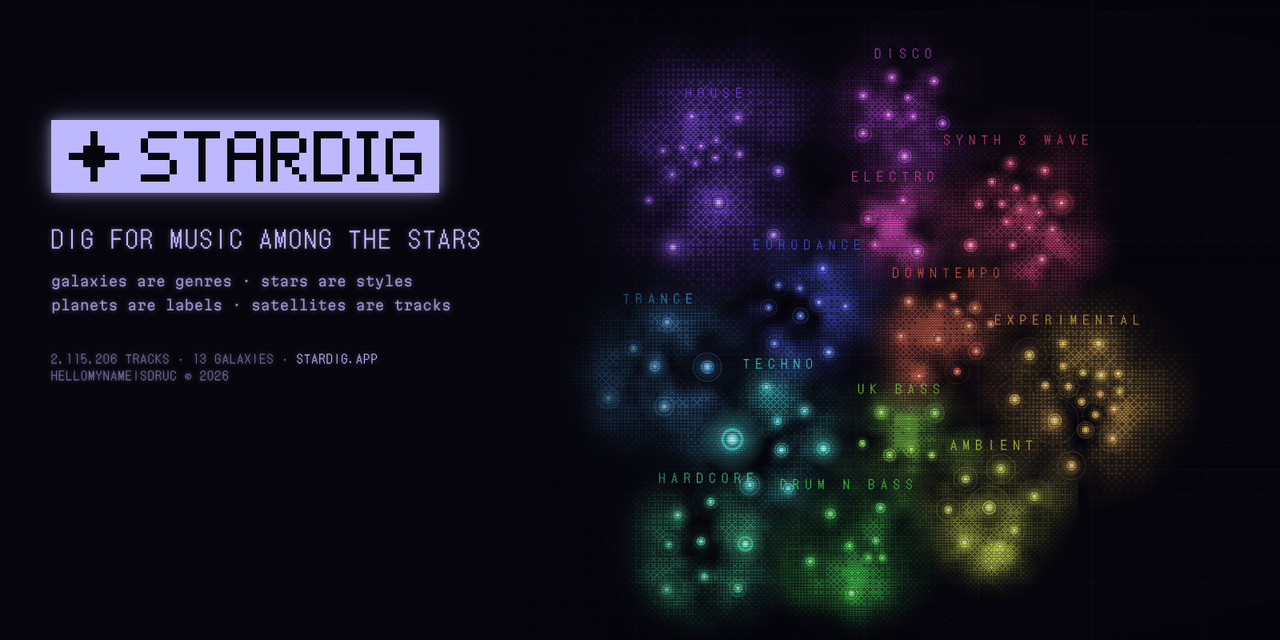
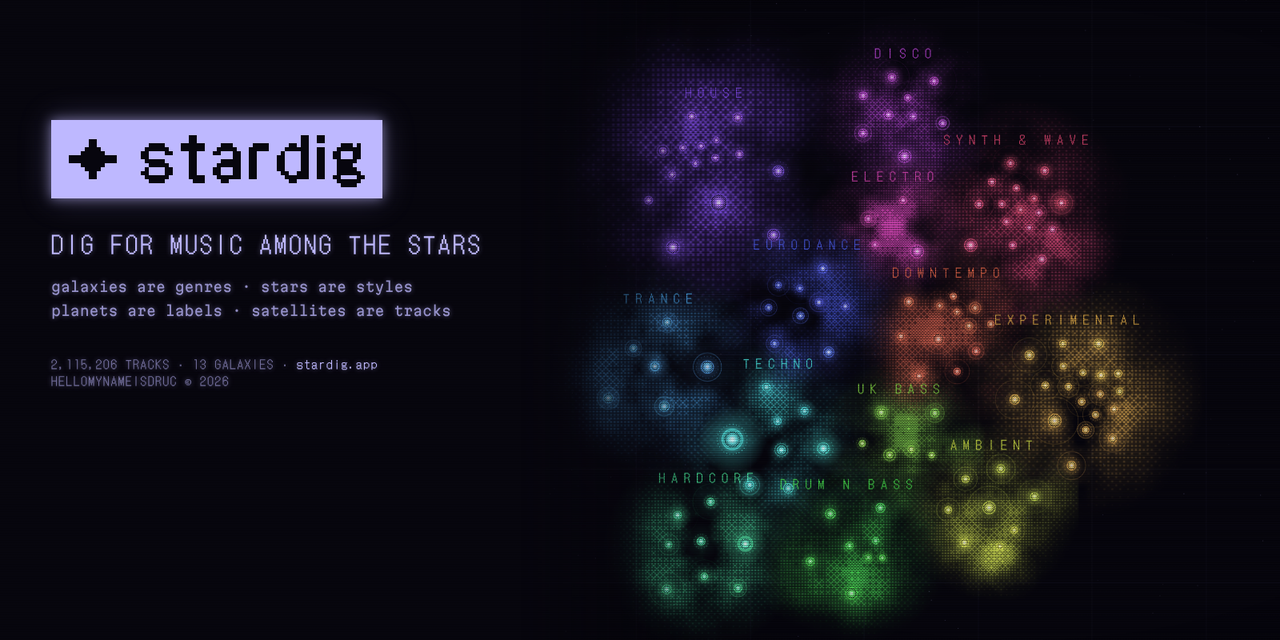
stardig, lowercase everywhere: the wordmark in DotGothic's own lowercase pixels (t, i and r redrawn with even 2-pixel strokes), titles, meta tags, privacy page, README; new social image
Claude-Session: https://claude.ai/code/session_0118KSDC269jzHuEKW3jVK4F

Changed region(s): [[0.0312, 0.1562, 0.375, 0.5], [0.0312, 0.5312, 0.3125, 0.625]]

diff --git a/web/src/ui/logo.ts b/web/src/ui/logo.ts
@@ -1,27 +1,35 @@
-// The wordmark: STARDIG in its own pixel letters (5×7, even strokes, an I with serifs), after a small
-// four-point spark. Drawn in the colour it sits in, so it works on the inverted plate and on the dark.
+// The wordmark: stardig, lowercase, in DotGothic16's own pixels (copied from the font at its native 16px), except
+// t, i and r, redrawn on the same grid with the font's 2-pixel strokes (at this size the font
+// draws them with 1-pixel stems). A four-point spark comes first. Drawn in the colour it sits in.
 const G: Record<string, string[]> = {
-  S: [".####", "#....", "#....", ".###.", "....#", "....#", "####."],
-  T: ["#####", "..#..", "..#..", "..#..", "..#..", "..#..", "..#.."],
-  A: [".###.", "#...#", "#...#", "#####", "#...#", "#...#", "#...#"],
-  R: ["####.", "#...#", "#...#", "####.", "#.#..", "#..#.", "#...#"],
-  D: ["####.", "#...#", "#...#", "#...#", "#...#", "#...#", "####."],
-  I: ["###", ".#.", ".#.", ".#.", ".#.", ".#.", "###"],
-  G: [".###.", "#....", "#....", "#.###", "#...#", "#...#", ".###."],
+  s: ["........", "........", "........", "..####..", ".######.", "##....##", "##......", ".#####..", "..#####.", ".#....##", "##....##", ".######.", "..####..", "........"],
+  t: ["......", "..##..", "..##..", "######", "######", "..##..", "..##..", "..##..", "..##..", "..##..", "..##..", "..####", "...###", "......"],
+  a: [".......", ".......", ".......", "..###..", ".#####.", "##...##", ".....##", "..#####", ".######", "##...##", "##...##", ".######", "..##...", "......."],
+  r: [".....", ".....", ".....", ".####", "#####", "##...", "##...", "##...", "##...", "##...", "##...", "##...", ".....", "....."],
+  d: ["........", "......##", "......##", "...##.##", "..######", ".#....##", "##....##", "##....##", "##....##", "##....##", ".##..###", "..######", "...##...", "........"],
+  i: ["..", "##", "##", "..", "##", "##", "##", "##", "##", "##", "##", "##", "..", ".."],
+  g: ["........", "........", "........", "..###.#.", ".######.", "##...##.", "##...##.", ".#####..", ".####...", ".#####..", ".######.", "##....##", ".######.", "..####.."],
 };
-const SPARK = ["...#...", "...#...", "..###..", "#######", "..###..", "...#...", "...#..."];
+const SPARK = ["............", "............", ".....##.....", ".....##.....", "....####....", "...######...", "############", "############", "...######...", "....####....", ".....##.....", ".....##.....", "............", "............"];
+const GAP = 2;
 
-/** the wordmark as SVG; px = the size of one pixel in CSS px */
-export function logoSvg(px = 2, spark = true) {
+/** the wordmark as SVG; px = the size of one font pixel in CSS px */
+export function logoSvg(px = 1, spark = true) {
   const rects: string[] = [];
   let x = 0;
-  const put = (rows: string[], dx: number) => rows.forEach((r, y) => { for (let i = 0; i < r.length; i++) if (r[i] === "#") rects.push(`<rect x="${dx + i}" y="${y}" width="1" height="1"/>`); });
-  if (spark) { put(SPARK, 0); x = SPARK[0].length + 3; }
-  for (const ch of "STARDIG") { put(G[ch], x); x += G[ch][0].length + 1; }
-  const w = x - 1, h = 7;
+  const put = (rows: string[], dx: number) => rows.forEach((r, y) => {
+    for (let i = 0; i < r.length; i++) {
+      if (r[i] !== "#") continue;
+      let j = i; while (j + 1 < r.length && r[j + 1] === "#") j++; // runs, not single pixels
+      rects.push(`<rect x="${dx + i}" y="${y}" width="${j - i + 1}" height="1"/>`); i = j;
+    }
+  });
+  if (spark) { put(SPARK, 0); x = SPARK[0].length + 6; }
+  for (const ch of "stardig") { put(G[ch], x); x += G[ch][0].length + GAP; }
+  const w = x - GAP, h = 14;
   return `<svg class="logo-svg" viewBox="0 0 ${w} ${h}" width="${w * px}" height="${h * px}" fill="currentColor" shape-rendering="crispEdges" aria-hidden="true">${rects.join("")}</svg>`;
 }
 /** fill every .logo on the page */
 export function paintLogos() {
-  document.querySelectorAll<HTMLElement>(".logo").forEach((el) => { el.innerHTML = logoSvg(Number(el.dataset.px) || 2, el.dataset.spark !== "0"); });
+  document.querySelectorAll<HTMLElement>(".logo").forEach((el) => { el.innerHTML = logoSvg(Number(el.dataset.px) || 1, el.dataset.spark !== "0"); });
 }

diff --git a/web/index.html b/web/index.html
@@ -3,31 +3,31 @@
 <head>
   <meta charset="utf-8">
   <meta name="viewport" content="width=device-width, initial-scale=1, viewport-fit=cover">
-  <title>Stardig — dig for music among the stars</title>
+  <title>stardig — dig for music among the stars</title>
   <link rel="icon" href="./favicon.svg" type="image/svg+xml">
   <link rel="icon" href="./favicon-32.png" sizes="32x32" type="image/png">
   <link rel="apple-touch-icon" href="./apple-touch-icon.png">
   <meta name="theme-color" content="#07060e">
   <meta name="author" content="hellomynameisdruc">
   <meta name="copyright" content="© 2026 hellomynameisdruc">
-  <meta name="description" content="Stardig: an observatory for electronic music. Genres are galaxies, styles are stars, labels are planets, tracks are satellites — dig for music among two million of them.">
+  <meta name="description" content="stardig: an observatory for electronic music. Genres are galaxies, styles are stars, labels are planets, tracks are satellites — dig for music among two million of them.">
   <link rel="canonical" href="https://stardig.app/">
   <link rel="author" href="https://github.com/hellomynameisdruc">
   <meta property="og:type" content="website">
-  <meta property="og:site_name" content="Stardig">
-  <meta property="og:title" content="Stardig — dig for music among the stars">
+  <meta property="og:site_name" content="stardig">
+  <meta property="og:title" content="stardig — dig for music among the stars">
   <meta property="og:description" content="Dig for music among the stars: genres are galaxies, styles are stars, labels are planets, tracks are satellites. By hellomynameisdruc.">
   <meta property="og:url" content="https://stardig.app/">
-  <meta property="og:image" content="https://stardig.app/og.png">
+  <meta property="og:image" content="https://stardig.app/og.png?v=3">
   <meta property="og:image:width" content="1280">
   <meta property="og:image:height" content="640">
   <meta name="twitter:card" content="summary_large_image">
-  <meta name="twitter:image" content="https://stardig.app/og.png">
+  <meta name="twitter:image" content="https://stardig.app/og.png?v=3">
 </head>
 <body>
   <div class="term">
     <header class="bar">
-      <div class="brand"><span class="inv logo" role="img" aria-label="Stardig">STARDIG</span><span class="sub">OBSERVATORY // SECTOR <b id="sector">HOUSE</b></span></div>
+      <div class="brand"><span class="inv logo" role="img" aria-label="stardig">stardig</span><span class="sub">OBSERVATORY // SECTOR <b id="sector">HOUSE</b></span></div>
       <div class="ticker" aria-hidden="true"><div class="ticker-in" id="ticker"></div></div>
       <div class="sys">
         <button type="button" class="key sm pilot-btn" id="pilotBtn"><span>SIGN IN</span></button>

diff --git a/web/public/privacy.html b/web/public/privacy.html
@@ -3,7 +3,7 @@
 <head>
 <meta charset="utf-8">
 <meta name="viewport" content="width=device-width, initial-scale=1">
-<title>Privacy · Stardig</title>
+<title>Privacy · stardig</title>
 <meta name="author" content="hellomynameisdruc">
 <link rel="icon" href="./favicon.svg" type="image/svg+xml">
 <style>
@@ -22,11 +22,11 @@
 </head>
 <body>
 <main>
-  <h1>STARDIG // PRIVACY</h1>
+  <h1>stardig // PRIVACY</h1>
   <p class="sub">LAST UPDATED 23 OCTOBER 2026</p>
 
   <h2>WHAT THIS IS</h2>
-  <p>Stardig (formerly Sound Cosmos) is a map of electronic music by hellomynameisdruc. Music plays through YouTube's own embedded player. You can use the map without an account; an account is only needed to chat in COMMS and to broadcast to other pilots.</p>
+  <p>stardig (formerly Sound Cosmos) is a map of electronic music by hellomynameisdruc. Music plays through YouTube's own embedded player. You can use the map without an account; an account is only needed to chat in COMMS and to broadcast to other pilots.</p>
 
   <h2>WHAT WE KEEP</h2>
   <ul>

diff --git a/web/src/main.ts b/web/src/main.ts
@@ -1,4 +1,4 @@
-// Stardig — entry point. Modules only define things; everything is started here, in order.
+// stardig — entry point. Modules only define things; everything is started here, in order.
 //   core/    types and helpers          model/  galaxy, motion, routes (pure, tested)
 //   data/    fetching the map           store/  beacons, flight log, prefs (behind a storage adapter)
 //   app/     shared state and actions   render/ camera, layers, what's drawn on the map
@@ -97,6 +97,6 @@ const m = location.hash.match(/^#t(\d+)-(\d+)$/);
 if (m && +m[1] < galaxy.stars.length) tracks.load(+m[1]).then((ch) => { if (+m[2] < ch.yt.length) select({ kind: "track", s: +m[1], i: +m[2] }); });
 
 // signature in the browser console
-console.log("%c STARDIG %c © 2026 hellomynameisdruc · all rights reserved · stardig.app",
+console.log("%c stardig %c © 2026 hellomynameisdruc · all rights reserved · stardig.app",
   "background:#b8a8ff;color:#0b0716;font-weight:bold;padding:2px 4px", "color:#b8a8ff");
 

diff --git a/web/src/ui/briefing.ts b/web/src/ui/briefing.ts
@@ -98,7 +98,7 @@ const PANELS: { t: string; p: string; d: string }[] = [
 function build() {
   const el = $("brief");
   el.innerHTML = `<div class="card brief-card" role="document">
-    <div class="card-head"><span class="inv logo" data-px="3" role="img" aria-label="Stardig"></span><span>PRE-FLIGHT SAFETY BRIEFING</span><button type="button" class="key icon sm" data-brief-close aria-label="Close the briefing">×</button></div>
+    <div class="card-head"><span class="inv logo" data-px="2" role="img" aria-label="stardig"></span><span>PRE-FLIGHT SAFETY BRIEFING</span><button type="button" class="key icon sm" data-brief-close aria-label="Close the briefing">×</button></div>
     <div class="modal-rail" role="status" aria-live="polite" hidden></div>
     <p class="brief-sub">PLEASE READ BEFORE TAKE-OFF · THIS CARD STAYS IN THE SEAT POCKET: <b>?</b></p>
     <ol class="brief-grid">${PANELS.map((p, k) => `<li><span class="brief-n">${k + 1}</span><h3>${p.t}</h3>${p.p}<p>${p.d}</p></li>`).join("")}</ol>

diff --git a/web/comms.html b/web/comms.html
@@ -3,7 +3,7 @@
 <head>
   <meta charset="utf-8">
   <meta name="viewport" content="width=device-width, initial-scale=1, viewport-fit=cover">
-  <title>COMMS · Stardig</title>
+  <title>COMMS · stardig</title>
   <link rel="icon" href="./favicon.svg" type="image/svg+xml">
   <meta name="theme-color" content="#07060e">
   <meta name="author" content="hellomynameisdruc">
@@ -12,7 +12,7 @@
 <body class="chat-page">
   <div class="term chat-term">
     <header class="bar">
-      <div class="brand"><span class="inv logo" role="img" aria-label="Stardig">STARDIG</span><span class="sub">COMMS // THE PILOTS' CHANNEL</span></div>
+      <div class="brand"><span class="inv logo" role="img" aria-label="stardig">stardig</span><span class="sub">COMMS // THE PILOTS' CHANNEL</span></div>
       <div class="sys">
         <span class="chat-me" id="chatMe"></span>
         <a class="key sm" href="./" target="sound-cosmos" title="The observatory">MAP ↗</a>

diff --git a/web/vite.config.ts b/web/vite.config.ts
@@ -1,7 +1,7 @@
 import { defineConfig } from "vite";
 
 // every built file opens with the copyright line, so copies keep the author's name
-const banner = "/*! Stardig \u00a9 2026 hellomynameisdruc. All rights reserved. https://stardig.app */";
+const banner = "/*! stardig \u00a9 2026 hellomynameisdruc. All rights reserved. https://stardig.app */";
 export default defineConfig({
   base: "./",
   build: { target: "es2022", rollupOptions: { input: { main: "index.html", comms: "comms.html" }, output: { banner } } },

diff --git a/web/src/styles/base.css b/web/src/styles/base.css
@@ -34,5 +34,5 @@ input[type="search"], input[type="text"], input[type="email"], textarea { cursor
 
 @media (prefers-reduced-motion: reduce) { body::after { animation: none } }
 /* the wordmark on its plate: pixel letters, no font */
-.inv.logo { display: inline-flex; align-items: center; padding: 5px 8px; line-height: 0 }
+.inv.logo { display: inline-flex; align-items: center; padding: 4px 8px; line-height: 0 }
 .logo-svg { display: block }

diff --git a/web/src/style.css b/web/src/style.css
@@ -1,4 +1,4 @@
-/* Stardig styles, in cascade order: tokens first, then the glass, controls, the layout, and each
+/* stardig styles, in cascade order: tokens first, then the glass, controls, the layout, and each
    part of the terminal. */
 @import "./styles/tokens.css";
 @import "./styles/base.css";

diff --git a/README.md b/README.md
@@ -1,5 +1,5 @@
 <p align="center">
-  <a href="https://stardig.app/"><img src="docs/media/banner.png" alt="Stardig — dig for music among the stars" width="100%"></a>
+  <a href="https://stardig.app/"><img src="docs/media/banner.png" alt="stardig — dig for music among the stars" width="100%"></a>
 </p>
 
 <p align="center">
@@ -62,7 +62,7 @@ House · Techno · Disco · Trance · Drum n Bass · Ambient · Downtempo · Exp
 - **Beacons**: mark the tracks you love. The **flight log** keeps your listening history. Both stay in your browser.
 - **Share**: the address bar always holds a link to the current track or odyssey.
 
-<img align="right" src="docs/media/mobile.png" alt="Stardig on a phone" width="220">
+<img align="right" src="docs/media/mobile.png" alt="stardig on a phone" width="220">
 
 ### Keyboard
 
@@ -85,7 +85,7 @@ The map works with one and two fingers. While music plays, the player becomes a 
 ## Where the data comes from
 
 The catalogue is the monthly **[Discogs data dump](https://data.discogs.com/)**, released under **CC0**, where releases already carry links to their videos.
-Stardig only embeds the official YouTube player. **Nothing is ever downloaded from YouTube**, and the player is always visible while it plays.
+stardig only embeds the official YouTube player. **Nothing is ever downloaded from YouTube**, and the player is always visible while it plays.
 
 <details>
 <summary><b>How the map is made</b></summary>
